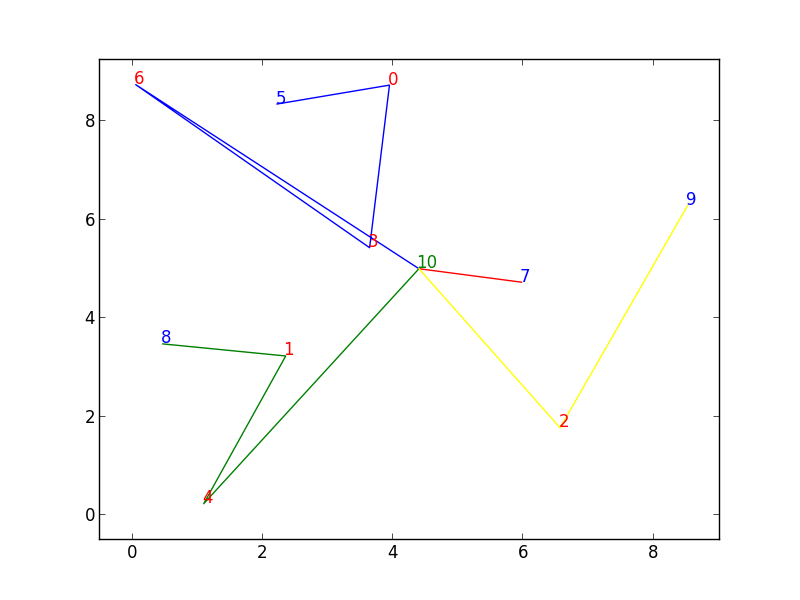
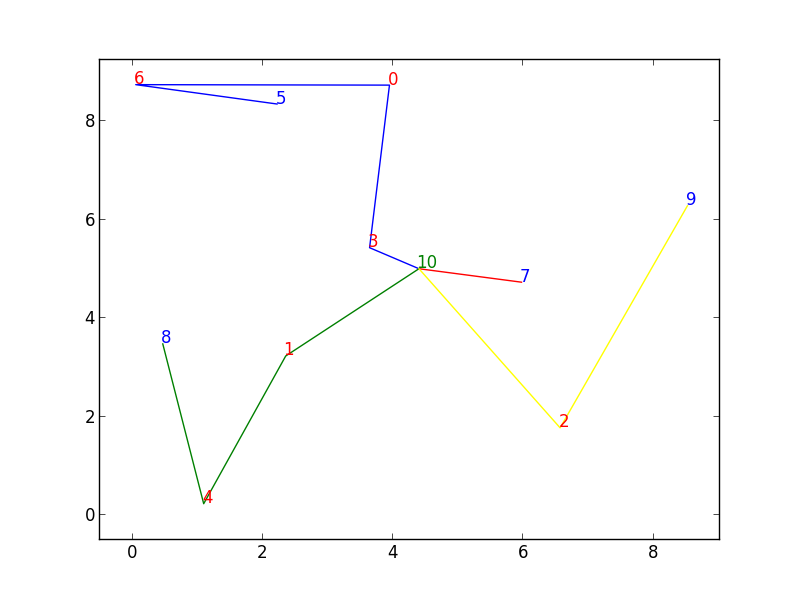
memoize and return the route for min path cost

diff --git a/carpool.py b/carpool.py
@@ -69,7 +69,8 @@ def baseline(ex):
         continue
       if total_cost >= min_cost:
         break
-      total_cost += ex.pickup_cost(driver, passenger_assignment[driver])
+      cost, passenger_assignment[driver] = ex.pickup_cost(driver, passenger_assignment[driver])
+      total_cost += cost
     if total_cost < min_cost:
       min_cost = total_cost
       min_assignment = passenger_assignment
@@ -107,8 +108,8 @@ def output_results(ex, inp_fname, method, min_cost, assignment):
     for i in range(len(assignment)):
       # is a driver
       if (assignment[i] != None):
-        print "{} drives {}".format(i, [i] + assignment[i])
-        out.write("{}: {}\n".format(i, assignment[i]))
+        print "{} drives {}".format(i, assignment[i])
+        out.write(str(assignment[i]) + "\n")
     print "Edge weights:"
     print "\t",
     print "\t".join([ str(item) for item in ex.distances.nodes() ])

diff --git a/genData.py b/genData.py
@@ -83,10 +83,9 @@ def graph(data_fname):
         plt.text(x, y, str(i), color=color)
       # plot paths of drivers
       for i, line in enumerate(gen_output):
-        driver, passengers = line.split(":")
-        driver = int(driver)
-        passengers = [ int(p.group()) for p in re.finditer(r"\d+", passengers) ]
-        route = [ driver ] + passengers + [ goal ]
+        stops = line.rstrip()
+        route = [ int(p.group()) for p in re.finditer(r"\d+", stops) ]
+        route += [ goal ]
         plt.plot(xs[route], ys[route], color=colors[ i % len(colors) ])
       # old plotting code
       # plt.plot(xs[ cats == 1 ], ys[ cats == 1 ], "bo")

diff --git a/search.py b/search.py
@@ -106,5 +106,5 @@ class Explorer:
         min_path = path
     print "=> Cost: {:.4}".format(min_path_cost)
 
-    self.pickup_costs[driver][pass_key] = min_path_cost
-    return min_path_cost
+    self.pickup_costs[driver][pass_key] = (min_path_cost, min_path)
+    return (min_path_cost, min_path)
